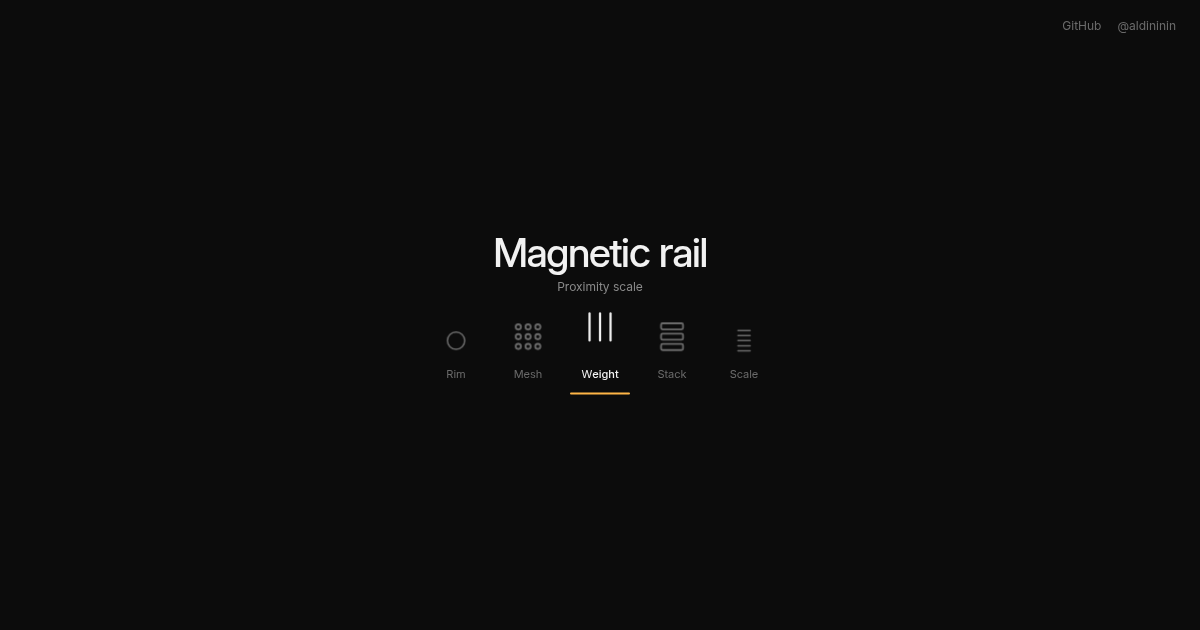
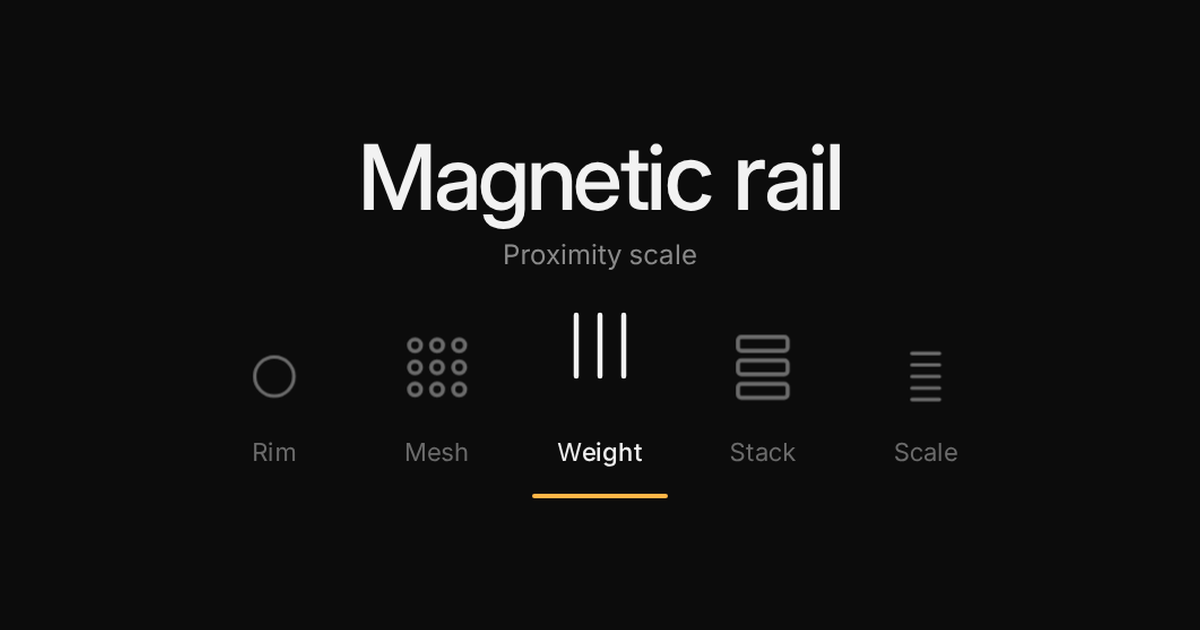
006: tighter og crop and SwiftUI hover pointer check

diff --git a/pieces/006-magnetic-rail/swiftui/MagneticRailView.swift b/pieces/006-magnetic-rail/swiftui/MagneticRailView.swift
@@ -20,7 +20,7 @@ import UIKit
    GUIDE  No fine pointer: after entrance, u runs 0→1 over 1400ms, timingCurve(0.45, 0, 0.55, 1).
           u = 0 is the first center, u = 1 the last. Drift is 0.5 + 0.5 cos(ωt), period 8000ms.
           driftT0 = entrance end + 1400, so t = 0 is u = 1 with velocity 0, then it moves left.
-   FINE   Known at launch on macOS, Mac Catalyst, and iPad. Those rest on index 2.
+   FINE   Known at launch on macOS, Mac Catalyst, iOS on a Mac, or when a hover pointer is present. Those rest on index 2. A touch-only iPad follows the same guide then drift as iPhone.
           Leaving the rail fades the bar over 200ms and returns scales to 1.
           Entering again fades the bar in over 200ms from the pointer x.
    ENTER  Stage opacity 160ms linear. Items spring 0.88 → magnetic scale, stagger 60ms
@@ -82,11 +82,20 @@ struct Bezier {
 let easeGuide = Bezier(x1: 0.45, y1: 0, x2: 0.55, y2: 1)
 
 func platformFinePointer() -> Bool {
-    #if os(macOS) || targetEnvironment(macCatalyst)
+    #if os(macOS)
+    return true
+    #elseif targetEnvironment(macCatalyst)
     return true
     #elseif os(iOS)
-    if UIDevice.current.userInterfaceIdiom == .pad { return true }
-    return ProcessInfo.processInfo.isiOSAppOnMac
+    if ProcessInfo.processInfo.isiOSAppOnMac { return true }
+    if #available(iOS 14.0, *) {
+        if UIDevice.current.userInterfaceIdiom == .mac { return true }
+        // pointerLockState is non-nil only when a pointer is currently available
+        return UIApplication.shared.connectedScenes
+            .compactMap { $0 as? UIWindowScene }
+            .contains { $0.pointerLockState != nil }
+    }
+    return false
     #else
     return false
     #endif

diff --git a/pieces/006-magnetic-rail/swiftui/README.md b/pieces/006-magnetic-rail/swiftui/README.md
@@ -8,7 +8,7 @@ Drop `MagneticRailView.swift` into an iOS 16+ SwiftUI target and bundle **Inter 
 - The bar is 2pt tall, amber `#FFB547` only, width equal to the nearest item's current visual width, radius 1pt.
 - Icons are stroked paths at 1.5pt: a circle, a 3×3 set of rings, three vertical bars, three rounded rectangles, five short ticks. No fill.
 - No fine pointer: after the 760ms entrance, a 1400ms guide runs normalized x from 0 to 1 with `timingCurve(0.45, 0, 0.55, 1)`. Drift is `0.5 + 0.5·cos(ωt)` over 8000ms, starting when the guide ends, so it sits at the right end with zero velocity and then moves left.
-- macOS, Mac Catalyst, and iPad are detected at launch and rest on the middle item. Leaving the rail fades the bar over 200ms and returns every scale to 1. Entering again fades the bar in over 200ms from the pointer position.
+- macOS, Mac Catalyst, iOS running on a Mac, and a device that currently has a hover pointer are detected at launch and rest on the middle item. A touch-only iPad uses the same 1400ms guide and 8000ms drift as iPhone. Leaving the rail fades the bar over 200ms and returns every scale to 1. Entering again fades the bar in over 200ms from the pointer position.
 - Entrance: stage opacity 160ms linear, items spring from 0.88 with a 60ms stagger. The bar stays hidden until 760ms. Reduce Motion holds every scale at 1 with the bar under the middle item and skips the entrance, guide, and drift.
 - Title is `clamp(28, 8% of width, 40)` with tracking −0.035em, 48pt above the icon row. Rail width is `min(560, 88% of width)`.
 - Parameters match the web piece (block at the top of the file). Not compiled here.
